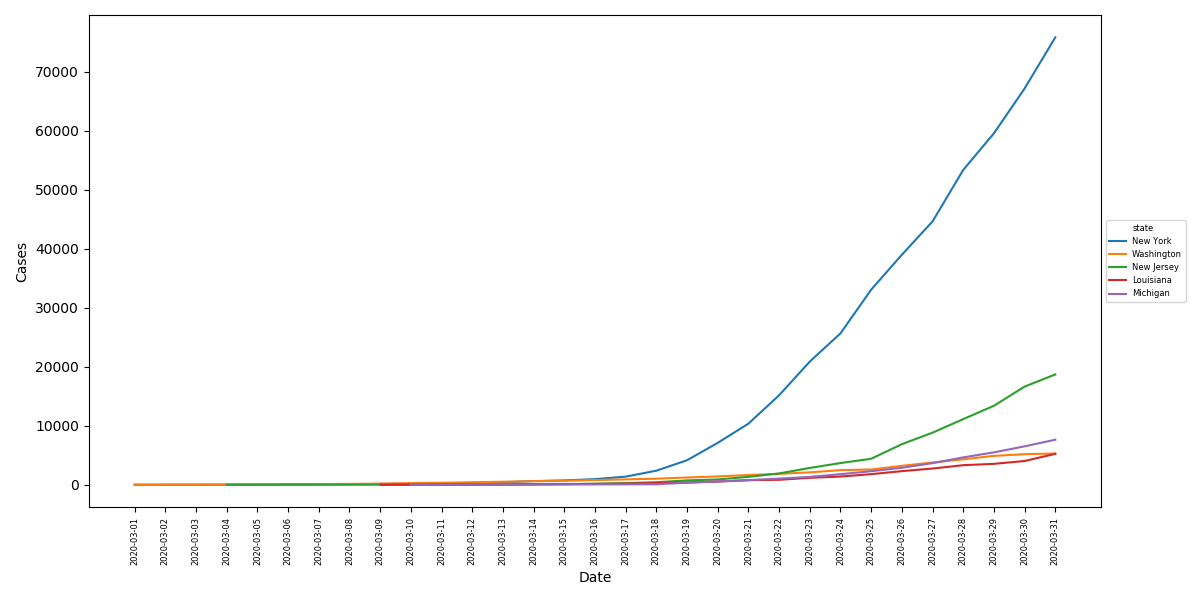
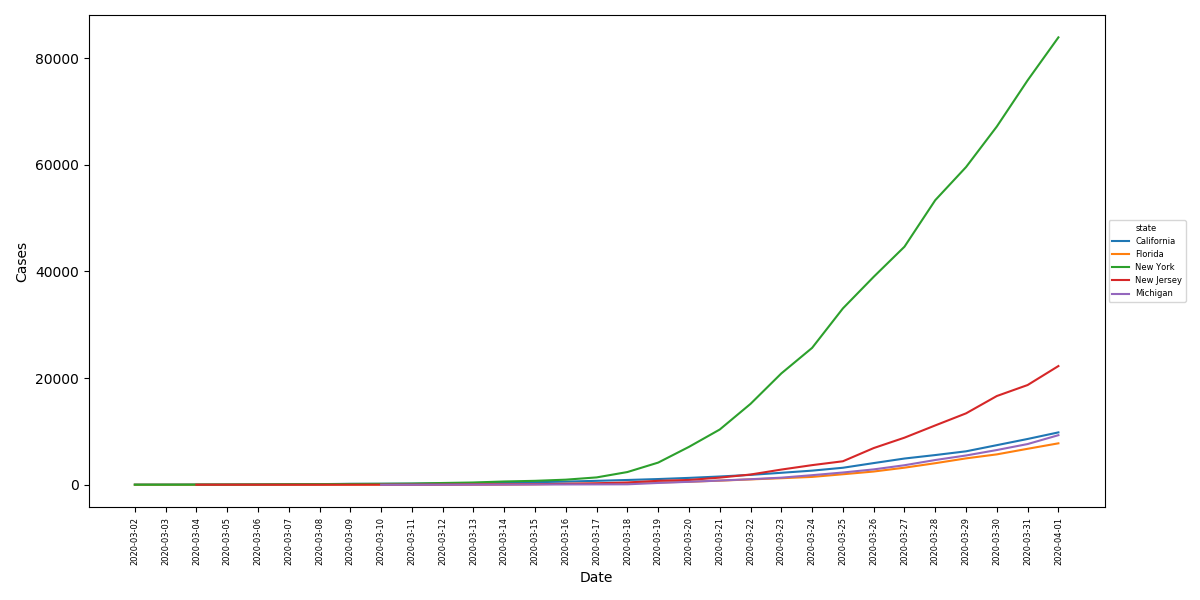
Updating with new data.

diff --git a/README.md b/README.md
@@ -1,8 +1,8 @@
 # Analyzing NYTimes Data With Python  
 In this forked repo from the New York Times, I've written a module in Python with helpful functions for quickly analyzing COVID-19 data.  
 
-Case Counts for 5 Most-Affected States Since March 1, 2020
-![Case Counts for 5 Most-Affected States Since March 1, 2020](https://github.com/dgellerup/covid-19-data/blob/master/plots/plot.png)
+Case Counts for 5 Most-Affected States From March 1, 2020 to April 1, 2020
+![Case Counts for 5 Most-Affected States From March 1, 2020 to April 1, 2020](https://github.com/dgellerup/covid-19-data/blob/master/plots/plot.png)
 
 # Coronavirus (Covid-19) Data in the United States
 
